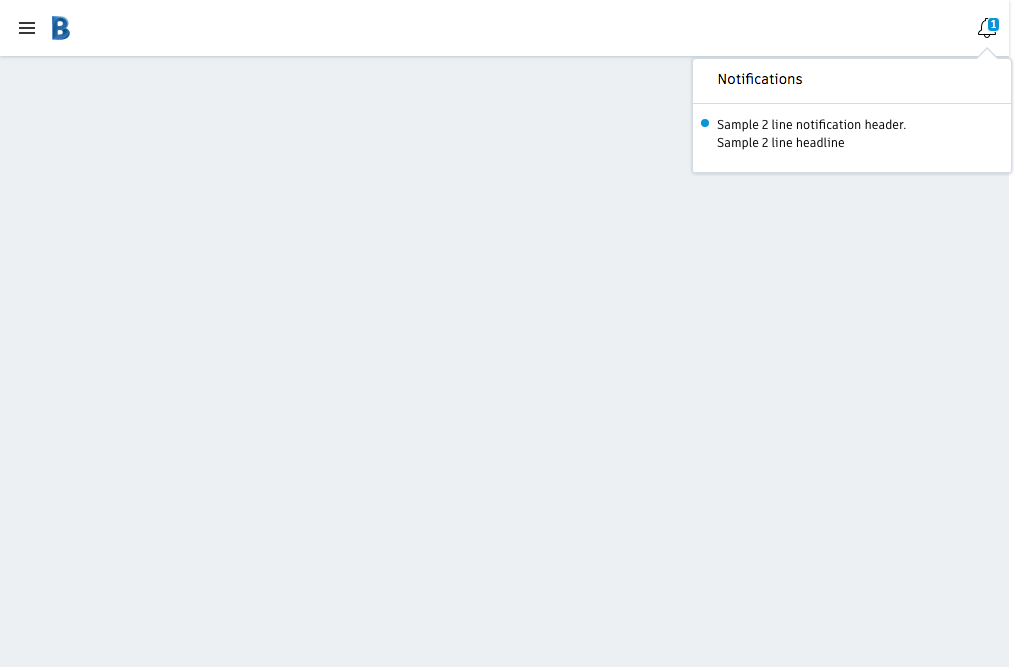
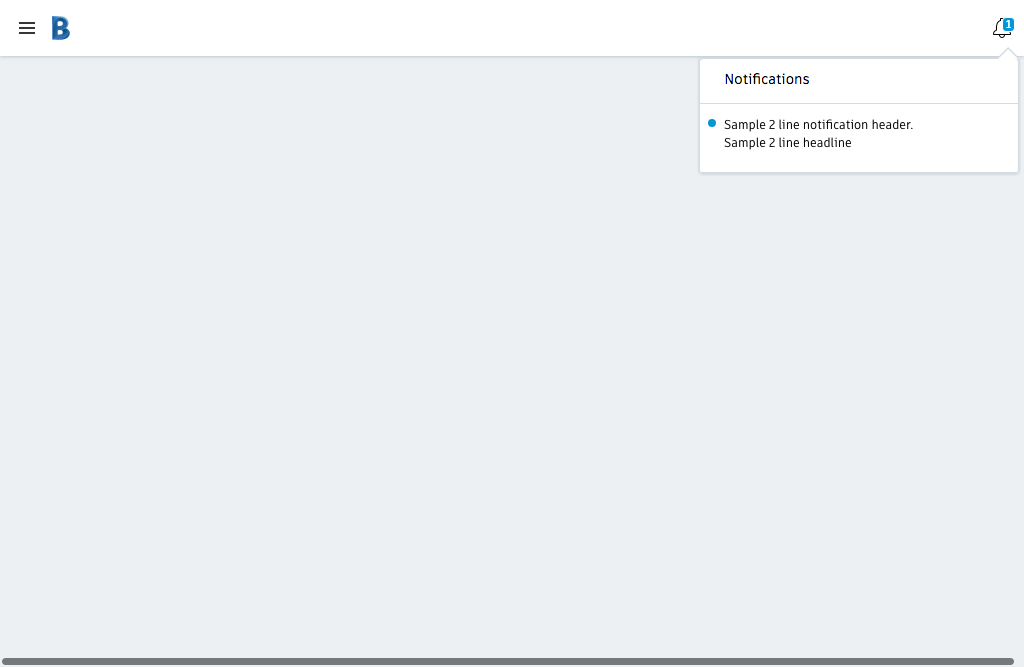
update gemini tests and fix chevron alignment for notifications

diff --git a/packages/vanilla/src/basics/flyout/flyout.js b/packages/vanilla/src/basics/flyout/flyout.js
@@ -120,12 +120,22 @@ class Flyout extends Core {
     const flyoutPanel = this._findDOMEl('.hig__flyout__panel', this.el);
     const flyoutViewPortInfo = flyoutPanel.getBoundingClientRect();
     const chevron = this._findDOMEl('.hig__flyout__chevron', this.el);
+    const target = this.el.firstElementChild;
+    const targetInfo = target.getBoundingClientRect();
+    const targetWidth = targetInfo.width / 2;
+    const targetCenter = targetInfo.x + targetWidth;
+
+    const chevronInfo = this._findDOMEl('.hig__flyout__chevron--dark', this.el).getBoundingClientRect();
+    const chevronWidth = chevronInfo.width / 2;
+    const chevronCenter = chevronInfo.x + chevronWidth;
 
     if (viewPortWidth < flyoutViewPortInfo.right) {
-      const shiftDistance = ((flyoutViewPortInfo.right - viewPortWidth) + 5);
+      const shiftDistance = flyoutViewPortInfo.right - viewPortWidth + 5;
       flyoutPanel.style.position = 'absolute';
       flyoutPanel.style.left = `-${shiftDistance}px`;
       chevron.style.zIndex = '9998';
+
+      chevron.style.left = `-${chevronCenter - targetCenter}px`;
     }
   }
 
@@ -143,31 +153,36 @@ class Flyout extends Core {
     }
   }
 
-
   _resetTopOrBottomFlyout(flyoutPanel, target, chevronContainer) {
     const updatedFlyoutViewportInfo = flyoutPanel.getBoundingClientRect();
     const targetInfo = target.getBoundingClientRect();
 
-    if (flyoutPanel.dataset.anchorPoint.includes('bottom-') || flyoutPanel.dataset.anchorPoint.includes('top-')) {
+    if (
+      flyoutPanel.dataset.anchorPoint.includes('bottom-') ||
+      flyoutPanel.dataset.anchorPoint.includes('top-')
+    ) {
       const shiftDistance = updatedFlyoutViewportInfo.left - targetInfo.left;
       flyoutPanel.style.left = `-${shiftDistance}px`;
 
       if (flyoutPanel.dataset.anchorPoint.includes('bottom-')) {
         flyoutPanel.style.bottom = '0px';
       }
-      this.updateChevronzIndex(chevronContainer);
+      this.updateChevronIndex(chevronContainer);
     }
   }
 
   _resetRightFlyout(flyoutPanel) {
     if (flyoutPanel.dataset.anchorPoint.includes('right-')) {
-      const updatedAnchorPoint = flyoutPanel.dataset.anchorPoint.replace(/right-/, 'left-');
+      const updatedAnchorPoint = flyoutPanel.dataset.anchorPoint.replace(
+        /right-/,
+        'left-'
+      );
       this.setAnchorPoint(updatedAnchorPoint);
       flyoutPanel.style.position = 'static';
     }
   }
 
-  _updateChevronzIndex(chevron) {
+  _updateChevronIndex(chevron) {
     chevron.style.zIndex = '9998';
   }
 

diff --git a/packages/react/src/playground/index.js b/packages/react/src/playground/index.js
@@ -477,8 +477,7 @@ class Playground extends React.Component {
       ),
       onModuleClick: this.handleModuleClick,
       onSubmoduleClick: this.handleSubmoduleClick,
-      variant: this.state.sideNavVariant,
-      isOpen: false
+      variant: this.state.sideNavVariant
     };
 
     return (
@@ -490,7 +489,7 @@ class Playground extends React.Component {
         topNav={topNavProps}
         activeModuleId={this.state.activeModuleId}
         showSubNav
-        sideNavOpen={false}
+        sideNavOpen={this.state.isSideNavOpen}
         onHamburgerClick={this.toggleSideNav}
       >
         <PlaygroundSection title="GlobalNav">
